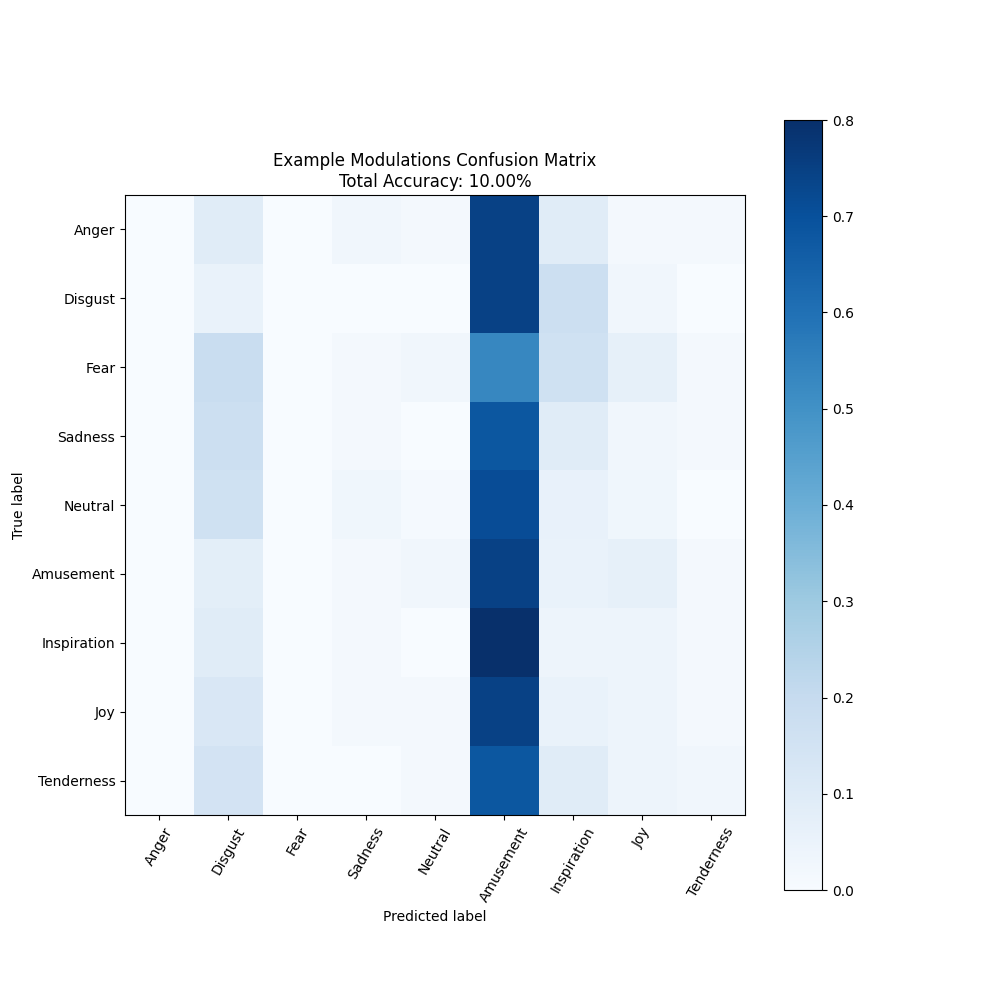
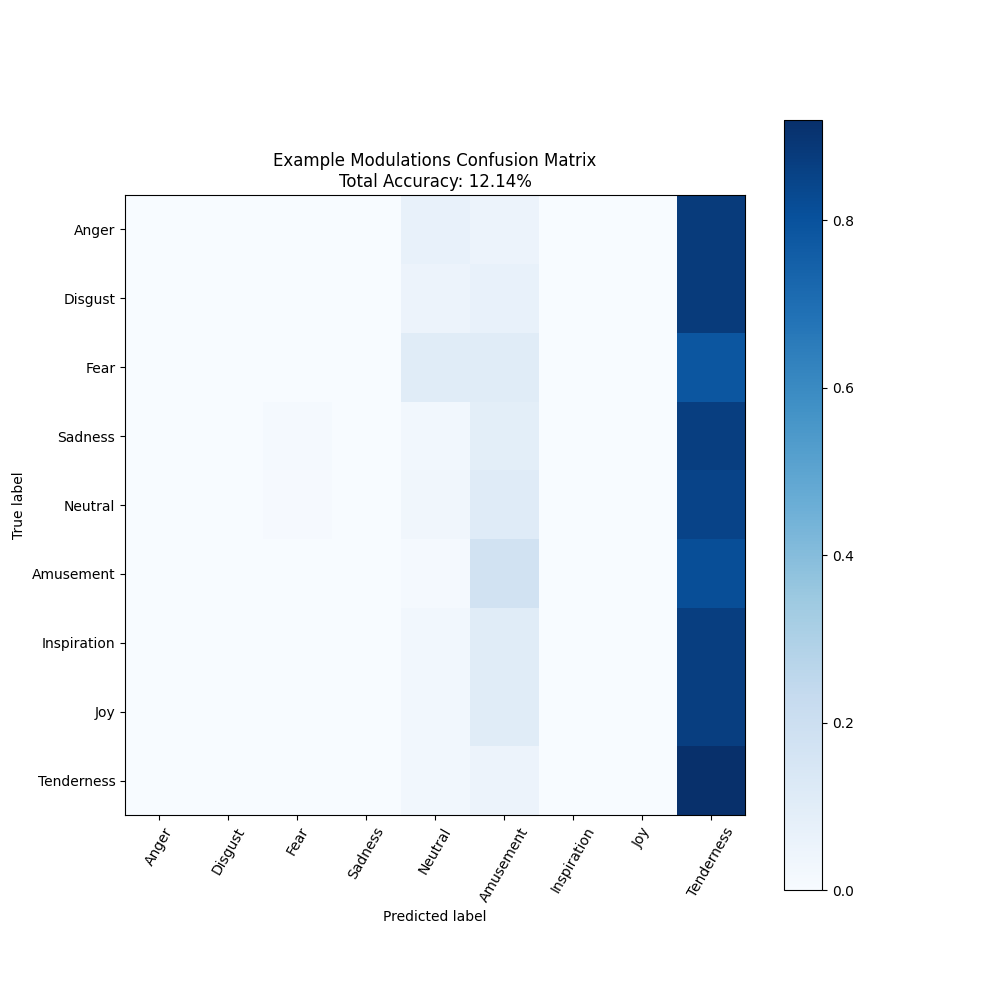
updates with the iterator

diff --git a/.ipynb_checkpoints/iterator-checkpoint.py b/.ipynb_checkpoints/iterator-checkpoint.py
@@ -15,7 +15,11 @@ argument_sets.append("--iq_samples 1024 --samples_per_class 8000 --batch_size 64
 
 #argument_sets.append("--iq_samples 1024 --samples_per_class 8000 --batch_size 64 --Hae_epochs 10 --Hqa_epochs 10 --classifier_epochs 10 --layers 3 --input_feature_dim 2 --codebook_slots 128 --codeword_dim 128 --codebook_init normal --batch_norm 1 --reset_choice 1 --num_res_blocks 0  --compress 2 --hae_lr 0.0004 --hqa_lr 0.0004  --CL_coeff 0 --visual_dir ./codebooks/ --trainbool True")
 
-argument_sets.append(" --batch_size 16 --Hae_epochs 10 --Hqa_epochs 10 --classifier_epochs 30 --layers 1 --input_feature_dim 32 --codebook_slots 1024 --codeword_dim 1024 --codebook_init normal --batch_norm 0 --reset_choice 1 --num_res_blocks 4  --compress 2 --hae_lr 0.0004 --hqa_lr 0.0004  --CL_coeff 0 --visual_dir ./codebooks/ --trainbool True")
+argument_sets.append(" --batch_size 32 --Hae_epochs 30 --Hqa_epochs 10 --hae_Cos_coeff 0.1 --classifier_epochs 30 --layers 2 --input_feature_dim 32 --codebook_slots 512 --codeword_dim 512 --codebook_init normal --batch_norm 0 --reset_choice 1 --num_res_blocks 5  --compress 2 --hae_lr 0.0001 --hqa_lr 0.0004  --CL_coeff 0 --visual_dir ./codebooks/ --trainbool True")
+argument_sets.append(" --batch_size 32 --Hae_epochs 30 --Hqa_epochs 10 --hae_Cos_coeff 0.1 --classifier_epochs 30 --layers 2 --input_feature_dim 32 --codebook_slots 512 --codeword_dim 512 --codebook_init normal --batch_norm 0 --reset_choice 1 --num_res_blocks 5  --compress 2 --hae_lr 0.0001 --hqa_lr 0.0004  --CL_coeff 0 --visual_dir ./codebooks/ --trainbool True")
+argument_sets.append(" --batch_size 32 --Hae_epochs 30 --Hqa_epochs 10 --hae_Cos_coeff 0.1 --classifier_epochs 30 --layers 2 --input_feature_dim 32 --codebook_slots 512 --codeword_dim 512 --codebook_init normal --batch_norm 0 --reset_choice 1 --num_res_blocks 5  --compress 2 --hae_lr 0.0001 --hqa_lr 0.0004  --CL_coeff 0 --visual_dir ./codebooks/ --trainbool True")
+argument_sets.append(" --batch_size 32 --Hae_epochs 30 --Hqa_epochs 10 --hae_Cos_coeff 0.1 --classifier_epochs 30 --layers 2 --input_feature_dim 32 --codebook_slots 512 --codeword_dim 512 --codebook_init normal --batch_norm 0 --reset_choice 1 --num_res_blocks 5  --compress 2 --hae_lr 0.0001 --hqa_lr 0.0004  --CL_coeff 0 --visual_dir ./codebooks/ --trainbool True")
+argument_sets.append(" --batch_size 32 --Hae_epochs 30 --Hqa_epochs 10 --hae_Cos_coeff 0.1 --classifier_epochs 30 --layers 2 --input_feature_dim 32 --codebook_slots 512 --codeword_dim 512 --codebook_init normal --batch_norm 0 --reset_choice 1 --num_res_blocks 5  --compress 2 --hae_lr 0.0001 --hqa_lr 0.0004  --CL_coeff 0 --visual_dir ./codebooks/ --trainbool True")
 
 
 for arguments in argument_sets: 

diff --git a/iterator.py b/iterator.py
@@ -15,7 +15,11 @@ argument_sets.append("--iq_samples 1024 --samples_per_class 8000 --batch_size 64
 
 #argument_sets.append("--iq_samples 1024 --samples_per_class 8000 --batch_size 64 --Hae_epochs 10 --Hqa_epochs 10 --classifier_epochs 10 --layers 3 --input_feature_dim 2 --codebook_slots 128 --codeword_dim 128 --codebook_init normal --batch_norm 1 --reset_choice 1 --num_res_blocks 0  --compress 2 --hae_lr 0.0004 --hqa_lr 0.0004  --CL_coeff 0 --visual_dir ./codebooks/ --trainbool True")
 
-argument_sets.append(" --batch_size 16 --Hae_epochs 10 --Hqa_epochs 10 --classifier_epochs 30 --layers 1 --input_feature_dim 32 --codebook_slots 1024 --codeword_dim 1024 --codebook_init normal --batch_norm 0 --reset_choice 1 --num_res_blocks 4  --compress 2 --hae_lr 0.0004 --hqa_lr 0.0004  --CL_coeff 0 --visual_dir ./codebooks/ --trainbool True")
+argument_sets.append(" --batch_size 32 --Hae_epochs 30 --Hqa_epochs 10 --hae_Cos_coeff 0.1 --classifier_epochs 30 --layers 2 --input_feature_dim 32 --codebook_slots 512 --codeword_dim 512 --codebook_init normal --batch_norm 0 --reset_choice 1 --num_res_blocks 5  --compress 2 --hae_lr 0.0001 --hqa_lr 0.0004  --CL_coeff 0 --visual_dir ./codebooks/ --trainbool True")
+argument_sets.append(" --batch_size 32 --Hae_epochs 30 --Hqa_epochs 10 --hae_Cos_coeff 0.1 --classifier_epochs 30 --layers 2 --input_feature_dim 32 --codebook_slots 512 --codeword_dim 512 --codebook_init normal --batch_norm 0 --reset_choice 1 --num_res_blocks 5  --compress 2 --hae_lr 0.0001 --hqa_lr 0.0004  --CL_coeff 0 --visual_dir ./codebooks/ --trainbool True")
+argument_sets.append(" --batch_size 32 --Hae_epochs 30 --Hqa_epochs 10 --hae_Cos_coeff 0.1 --classifier_epochs 30 --layers 2 --input_feature_dim 32 --codebook_slots 512 --codeword_dim 512 --codebook_init normal --batch_norm 0 --reset_choice 1 --num_res_blocks 5  --compress 2 --hae_lr 0.0001 --hqa_lr 0.0004  --CL_coeff 0 --visual_dir ./codebooks/ --trainbool True")
+argument_sets.append(" --batch_size 32 --Hae_epochs 30 --Hqa_epochs 10 --hae_Cos_coeff 0.1 --classifier_epochs 30 --layers 2 --input_feature_dim 32 --codebook_slots 512 --codeword_dim 512 --codebook_init normal --batch_norm 0 --reset_choice 1 --num_res_blocks 5  --compress 2 --hae_lr 0.0001 --hqa_lr 0.0004  --CL_coeff 0 --visual_dir ./codebooks/ --trainbool True")
+argument_sets.append(" --batch_size 32 --Hae_epochs 30 --Hqa_epochs 10 --hae_Cos_coeff 0.1 --classifier_epochs 30 --layers 2 --input_feature_dim 32 --codebook_slots 512 --codeword_dim 512 --codebook_init normal --batch_norm 0 --reset_choice 1 --num_res_blocks 5  --compress 2 --hae_lr 0.0001 --hqa_lr 0.0004  --CL_coeff 0 --visual_dir ./codebooks/ --trainbool True")
 
 
 for arguments in argument_sets: 

diff --git a/.ipynb_checkpoints/run_pipeline-checkpoint.py b/.ipynb_checkpoints/run_pipeline-checkpoint.py
@@ -6,7 +6,7 @@ def parse_args():
     parser = argparse.ArgumentParser(description='Run the training pipeline with custom parameters.')
     parser.add_argument('--iq_samples', type=int, default=1024)
     parser.add_argument('--samples_per_class', type=int, default=8000)
-    parser.add_argument('--batch_size', type=int, default=64)
+    parser.add_argument('--batch_size', type=int, default=16)
     parser.add_argument('--Hae_epochs', type=int, default=10)
     parser.add_argument('--Hqa_epochs', type=int, default=20)
     parser.add_argument('--classifier_epochs', type=int, default=10)
@@ -22,7 +22,7 @@ def parse_args():
     parser.add_argument('--compress', type=int, default=2)
     parser.add_argument('--hae_lr', type=float, default=4e-4)
     parser.add_argument('--hqa_lr', type=float, default=4e-4)
-    parser.add_argument('--hae_Cos_coeff', type=float, default=0.5)
+    parser.add_argument('--hae_Cos_coeff', type=float, default=0.0)
     parser.add_argument('--hqa_Cos_coeff', type=float, default=0)
     parser.add_argument('--KL_coeff', type=float, default=0.1)
     parser.add_argument('--CL_coeff', type=float, default=0.005)
@@ -38,7 +38,9 @@ if __name__ == "__main__":
     eff_net_PATH = f"./src/classifiers/{args.classifier_epochs}epochs_classifier.pt"
     enc_hidden_sizes=[16, 16, 32, 64, 128, 256]
     dec_hidden_sizes=[16, 64, 256, 512, 1024, 2048]
-    training_pipeline(classes=["4ask","8pam","16psk","32qam_cross","2fsk","ofdm-256"],
+    #classes = ["4ask","8pam","16psk","32qam_cross","2fsk","ofdm-256"]
+    classes = ["Anger","Disgust","Fear","Sadness","Neutral","Amusement","Inspiration","Joy","Tenderness"]
+    training_pipeline(classes=classes,
                       iq_samples=args.iq_samples, 
                       enc_hidden_sizes=enc_hidden_sizes,
                       dec_hidden_sizes=dec_hidden_sizes,

diff --git a/run_pipeline.py b/run_pipeline.py
@@ -22,7 +22,7 @@ def parse_args():
     parser.add_argument('--compress', type=int, default=2)
     parser.add_argument('--hae_lr', type=float, default=4e-4)
     parser.add_argument('--hqa_lr', type=float, default=4e-4)
-    parser.add_argument('--hae_Cos_coeff', type=float, default=0.5)
+    parser.add_argument('--hae_Cos_coeff', type=float, default=0.0)
     parser.add_argument('--hqa_Cos_coeff', type=float, default=0)
     parser.add_argument('--KL_coeff', type=float, default=0.1)
     parser.add_argument('--CL_coeff', type=float, default=0.005)
